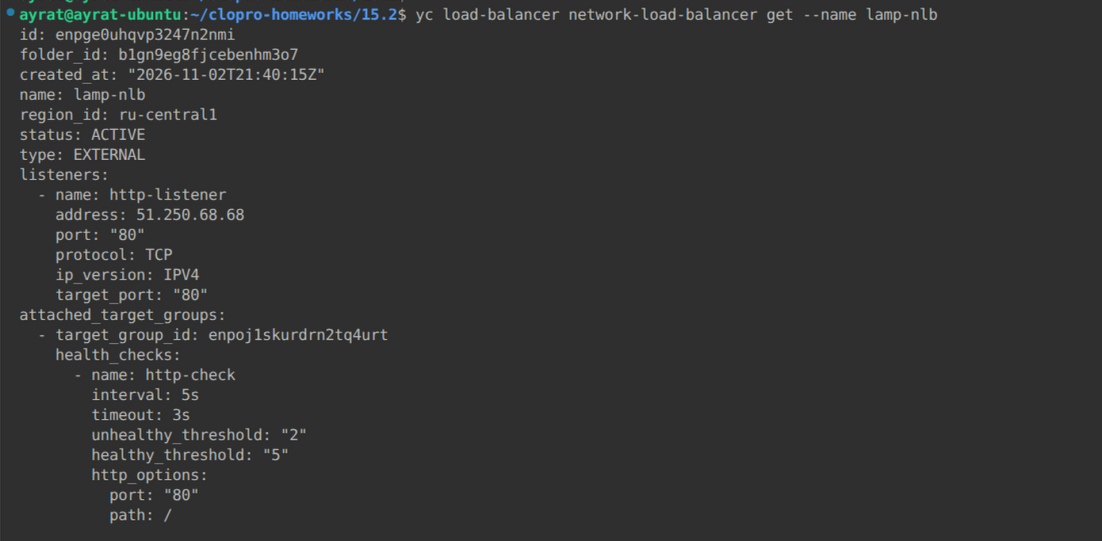
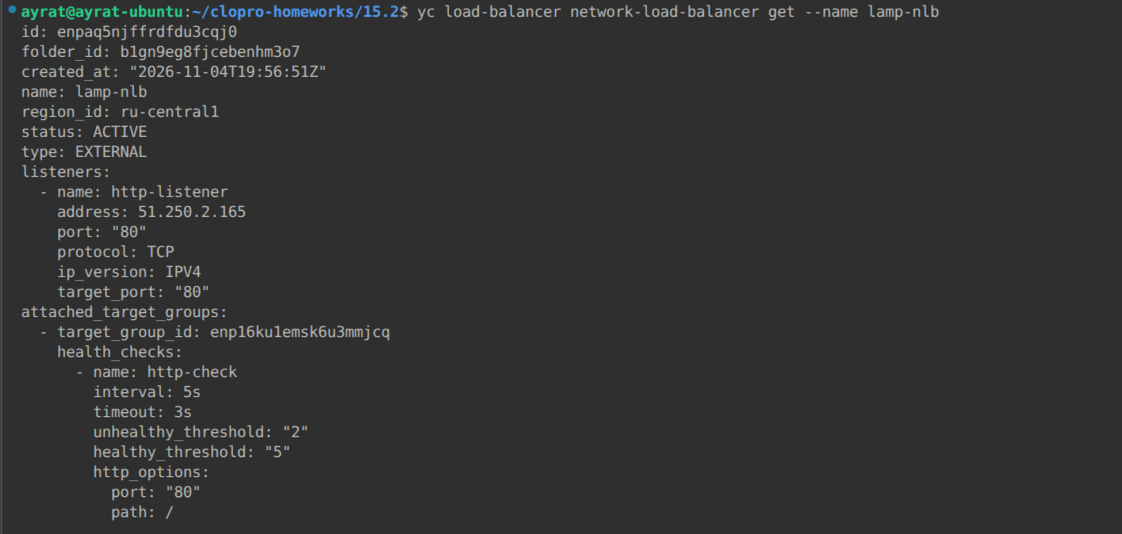
выполненное задание

Changed region(s): [[0.0, 0.0, 0.8639, 0.9888]]

diff --git a/15.2/15.2.md b/15.2/15.2.md
@@ -248,9 +248,28 @@ resource "yandex_lb_network_load_balancer" "nlb" {
 
   ![Скрин 4](img/img4.png)  
 
-Проверяю доступность сайта. Сайт недоступен. Пока не могу добиться открытия веб страницы.  
+Проверяю доступность сайта. Сайт доступен.  
 
   ![Скрин 5](img/img5.png)  
+
+  ![Скрин 6](img/img6.png)  
+
+Проверяю работу балансировщика. Удалю машину на который идёт трафик.  
+
+  ![Скрин 7](img/img7.png)  
+
+Балансировщик работает. Перевёл трафик на другую машину.  
+
+  ![Скрин 8](img/img8.png)  
+
+Группа виртуальных машин тоже работает, создадась третья машина вместо удалённой.  
+
+  ![Скрин 9](img/img9.png)  
+
+
+  
+
+
 
 Ссылка на [main.tf](https://github.com/AyratTukay/clopro-homeworks/blob/main/15.2/main.tf)  
 Ссылка на [variables.tf](https://github.com/AyratTukay/clopro-homeworks/blob/main/15.2/variables.tf)  
